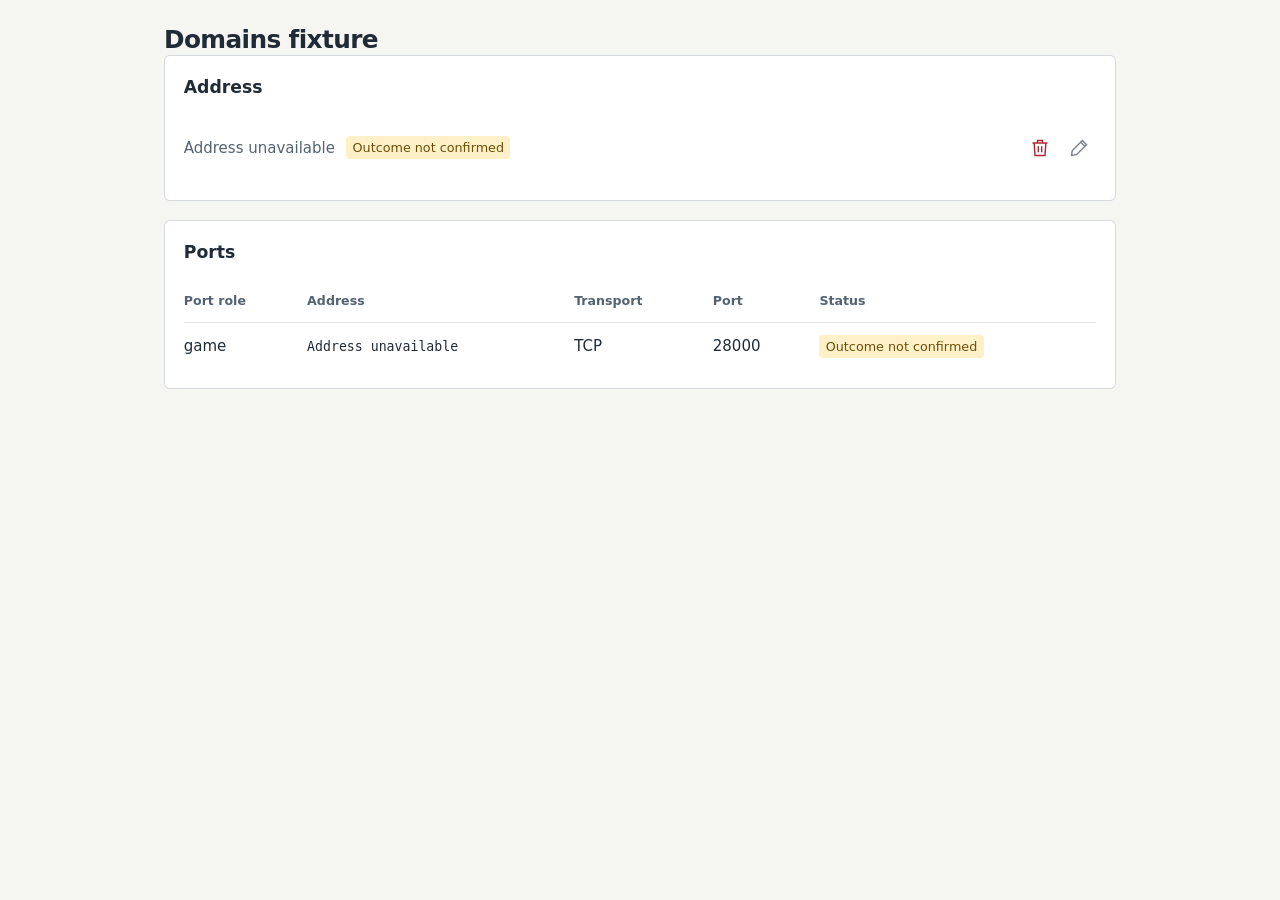
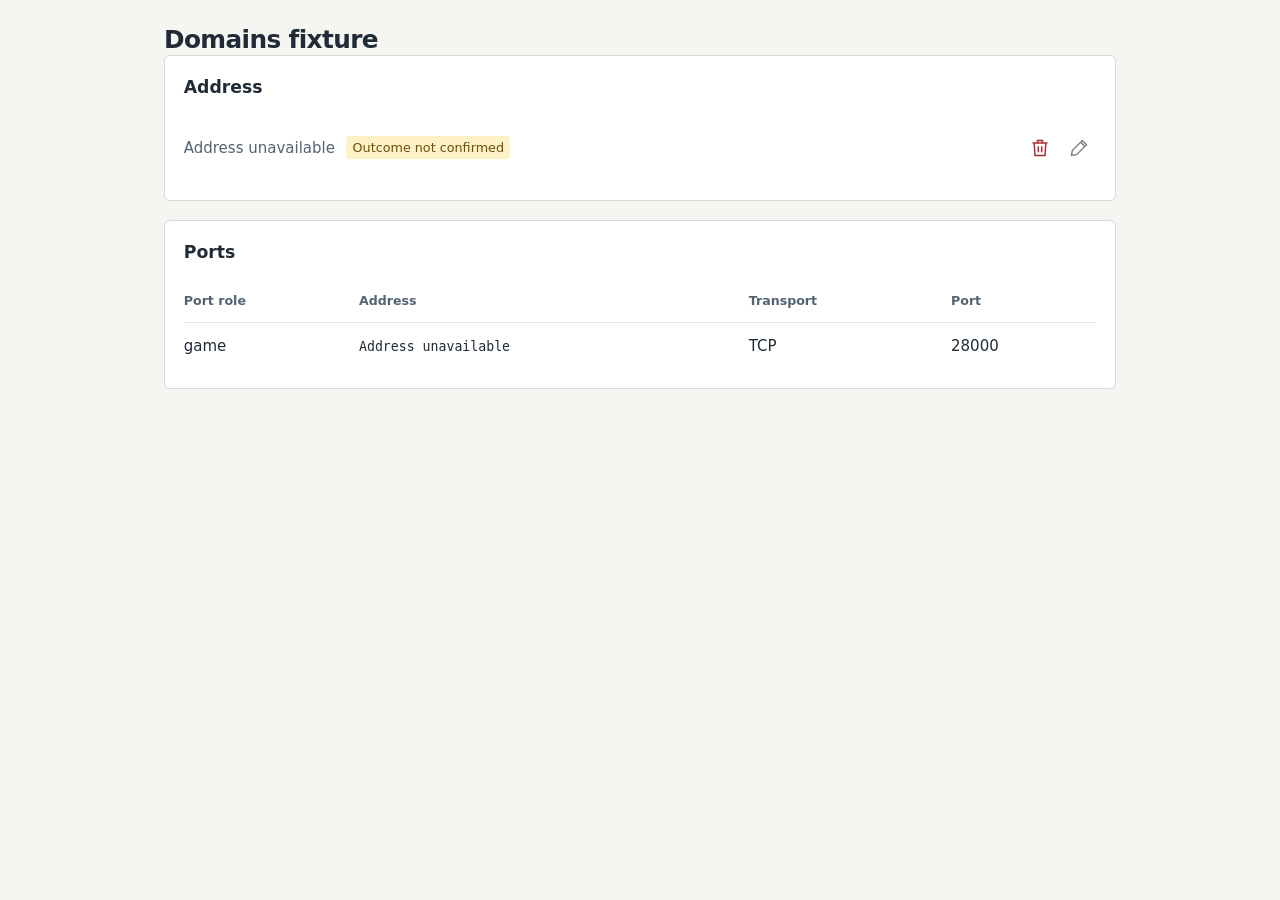
fix(web): remove state from connection ports table

diff --git a/apps/web/src/features/network.tsx b/apps/web/src/features/network.tsx
@@ -226,7 +226,6 @@ export function NetworkPage({ serverId }: { serverId: string }) {
                   <th>{t('service.address')}</th>
                   <th>{t('service.transport')}</th>
                   <th>{t('service.port')}</th>
-                  <th>{t('web.status')}</th>
                 </tr>
               </thead>
               <tbody>
@@ -238,22 +237,6 @@ export function NetworkPage({ serverId }: { serverId: string }) {
                     </td>
                     <td>{port.transport.toUpperCase()}</td>
                     <td>{port.port ?? t('web.unavailable')}</td>
-                    <td>
-                      <Badge
-                        value={
-                          port.displayAddress
-                            ? port.status
-                            : addressState === 'pending' || addressState === 'uncertain'
-                              ? addressState
-                              : 'unconfigured'
-                        }
-                        label={
-                          port.displayAddress && port.status === 'configured'
-                            ? t('service.directConfigured')
-                            : undefined
-                        }
-                      />
-                    </td>
                   </tr>
                 ))}
               </tbody>

diff --git a/docs/M5-VALIDATION.md b/docs/M5-VALIDATION.md
@@ -10301,3 +10301,9 @@ independent read-only contract review found no issues. No backend or infrastruct
 changes.
 The existing DNS-state Firefox regression passed (1 passed, 13 unrelated skipped);
 its Network screenshot above was refreshed and reviewed with the added column.
+
+Owner UI follow-up: removed the State column from the ports table, leaving Role,
+Address, Transport and Port. DNS assignment feedback remains above the table.
+Scoped Biome/whitespace and independent diff review passed; no backend changes.
+Existing Firefox DNS-state test passed (1 passed, 13 unrelated skipped); screenshot
+refreshed and reviewed with the four-column layout. No infrastructure operations.
